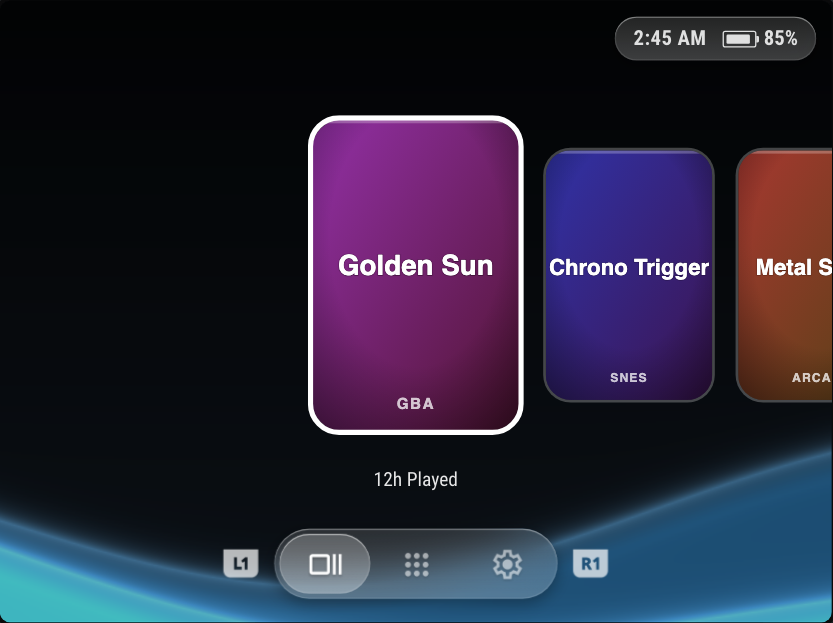
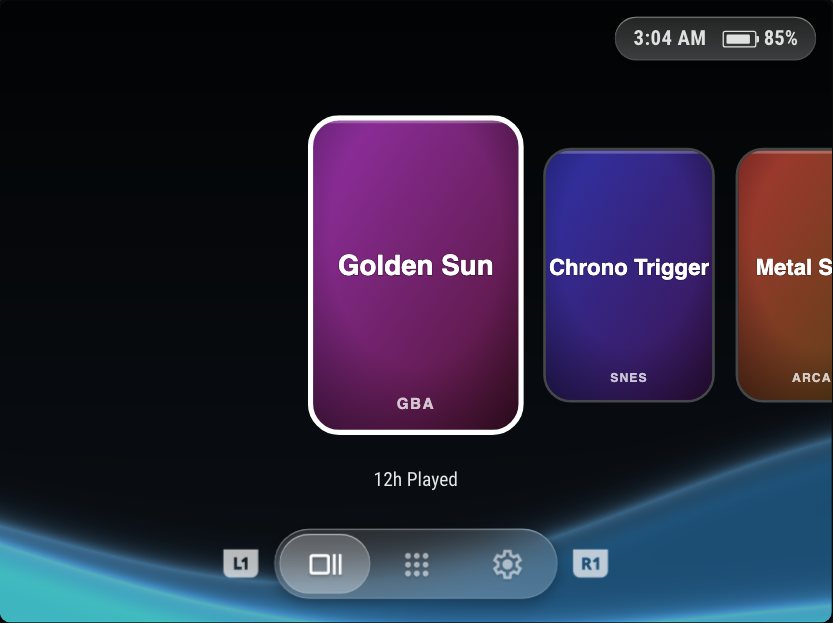
docs: rewrite the guidance for the ported architecture
`CLAUDE.md` described a repo of standalone HTML files and no longer described this one. It now covers where things are, how to add a theme, the portability rules, and the four structural facts about theme XML that each cost a debugging round - inheritance, composing conditions, include-selected option files, and origin.

Two rules changed rather than moved. Screens are no longer openable over `file://`, which was a stated convention and is deliberately retired; the legacy pages keep it. And motion is not inertness: `animate={false}` settles motion while `interactive={false}` is what removes the controls, a distinction the themes originally conflated.

The widget catalogue gains the handoff the whole exercise is for: what a renderer with no DOM and no cascade would have to provide. Nineteen widgets, one geometry primitive, a depth model with real stacking, motion as a timeline over seven channels and ten easings, declared text metrics, three image fits and one capability flag - and, as usefully, what it would not need.

The scaffold is re-aligned with what the three real ports settled on, including why it has no `Interactive.tsx` and why the absence is the lesson: a theme with no subsets to expose does not need the layer.

diff --git a/app/src/themes/example-cfw/routes.tsx b/app/src/themes/example-cfw/routes.tsx
@@ -3,7 +3,15 @@ import type { ScreenRoute } from '../../routes'
 import { ExampleOs } from '.'
 import { EXAMPLE_MANIFEST, type ExampleView } from './manifest'
 
-/** Mount each manifest entry. Static entries are the live build with motion settled. */
+/**
+ * Mount each manifest entry. A static entry is the live build with motion settled.
+ *
+ * The live build is inline here rather than in an `Interactive.tsx`, because this theme has no
+ * mockup-only subsets to expose. The other three do - fourteen colour schemes, eleven views, five
+ * backgrounds - and each keeps that state in its own `Interactive.tsx` so the theme's props stay
+ * the same set a static screen passes. Reach for that file when there is something to switch;
+ * until then it is a layer with nothing in it.
+ */
 export function exampleRoutes(): ScreenRoute[] {
   return EXAMPLE_MANIFEST.map((entry) => ({
     ...entry,

diff --git a/docs/widgets/README.md b/docs/widgets/README.md
@@ -74,3 +74,50 @@ as a props spread, which stays banned.
 
 **Web-only capabilities** are declared in the widget's registry entry alongside the fallback it
 renders instead. A widget declaring one without the other fails the registry test.
+
+## What a C system would have to provide
+
+The vocabulary is settled: four sets are ported, and the last three needed between one and four
+new leaf widgets each rather than any change to its shape. So this is the handoff - what a second
+renderer, with no DOM and no cascade, would have to implement to draw every screen in this repo.
+
+**Nineteen widgets.** Each is a pure function of typed props onto a rectangle. None reads ambient
+state, so each can be compiled independently.
+
+**One geometry primitive.** A `Box` of resolved device pixels - `left`, `top`, `width`, `height`,
+plus an optional font size, corner radius and depth. Every position in every theme resolves to one
+of these before a widget sees it, so the renderer never needs a layout engine. Two placement forms
+exist: a plain box, and an *anchored* box that sizes to its content and then shifts by a fraction
+of its own size. The second is not a special case of the first, and themes depend on it.
+
+**A depth model with real stacking.** Every fault this repo has had was a compositing fault, and
+all four came from the same place: an element that was numerically correct and painted in the
+wrong order. A renderer needs a total order over drawn elements that a caller can reason about
+locally - if a container can silently re-base the depths inside it, as a CSS stacking context
+does, the same class of bug is waiting.
+
+**Motion as a timeline of segments.** `channel, from, to, begin, duration, easing`, plus repeat
+and alternate. Seven channels - opacity, two offsets, two positions, scale, depth - and ten
+easings, which is every curve the four sets between them use. Two properties matter beyond the obvious: several channels animate on one element at
+once and must compose rather than overwrite, and every track has a defined *resting* value so a
+still can be drawn without running a clock. See [animation.md](../animation.md).
+
+**Text with declared metrics.** Family, size, weight, and an explicit wrap and truncation rule.
+No widget relies on the renderer measuring text for it, and where the source truncates, the rule
+is a prop rather than a CSS property.
+
+**Three image fit modes** - contain, cover, and the anchored fit above - each with a corner radius
+and an optional nearest-neighbour scale for pixel art.
+
+**One capability flag.** Whether the richer path is available. Four effects across the four sets
+need it: backdrop blur, an arbitrary mask, CSS ellipsis, and a fragment shader. The first three are
+declared by widgets alongside the fallback they render instead; the shader belongs to Vitro's wave
+background, which is a render loop rather than a widget and carries its own 2D approximation. A
+renderer implementing none of the four still draws every screen in this repo.
+
+(The capability list also names `boxReflect`, which no widget currently declares - PlayStation X's
+carousel reflection was dropped during the port. It is kept in the type because the effect is real
+in the source and a future screen may want it.)
+
+What it would *not* need: a cascade, a layout engine, document flow, or a way to express a
+selector. Nothing in the vocabulary uses any of them.

diff --git a/docs/themes/example-cfw.md b/docs/themes/example-cfw.md
@@ -119,5 +119,39 @@ narrowly.
 5. Write one view component per screen, each opening with a PORTING NOTES block.
 6. List the screens in `manifest.ts` and mount them in `routes.tsx`.
 7. Register the theme's routes in `app/src/themes/registry.ts`.
-8. Copy this page to `docs/themes/<slug>.md` and fill it in, and record every deviation from the
+8. Add it to `app/src/themes/manifest.ts` and to the catalogue in `app/src/themes/catalogue.ts`.
+9. Copy this page to `docs/themes/<slug>.md` and fill it in, and record every deviation from the
    source in `docs/porting/<slug>.md`.
+10. Run `npm run test:e2e:update` to write the new screens' baselines, then look at them.
+
+## What the three real ports taught
+
+This scaffold was written before any of them, and it has been brought back into line with what
+they settled on. The differences are worth knowing before copying it.
+
+**`Interactive.tsx` is optional, and this theme is the case where it is not needed.** A theme with
+mockup-only subsets - fourteen colour schemes, eleven views, five backgrounds - keeps that state in
+its own `Interactive.tsx` so the theme's own props stay exactly the set a static screen passes.
+That is what makes "a still is the live build with motion settled" true rather than aspirational.
+With nothing to switch, the live route is two lines in `routes.tsx` and the extra file would be a
+layer with nothing in it.
+
+**A theme root gets a stacking context.** Every set here paints a full-bleed background under its
+content, and every one of them at some point had that background swallow the screen. If the theme
+has a root element with a background fill, give it `isolation: isolate` so a depth inside it cannot
+escape. This scaffold has no such layer, which is why it has no such rule - and why it would not
+have taught you the lesson.
+
+**Geometry resolves once, up front.** `layout.ts` here resolves fractions to device pixels in a
+pure function of `(device, options)`. The two large sets do the same through a bigger `spec.ts`
+with per-condition variant rows. Either way the rule is the same: a view component receives
+numbers, never a formula, and never reads back from the DOM.
+
+**Motion is not the same as inertness.** `animate={false}` settles motion. What makes a screen
+inert is `interactive={false}`, which gives it no input provider. Do not gate a press handler on
+`animate` - it reads as harmless and makes the screen impossible to drive with a stable background,
+which is exactly what an interaction trace needs.
+
+**Look at the screen.** Every serious fault in this repo was a compositing fault that passed the
+entire test suite. Whatever else you do, render it and compare it against the source's own
+screenshots.

diff --git a/README.md b/README.md
@@ -1,6 +1,6 @@
 # CFW UI Mockups
 
-HTML mockups of the on-screen UI of SBC gaming handheld custom firmware and launchers -
+Mockups of the on-screen UI of SBC gaming handheld custom firmware and launchers -
 projects like muOS, Knulli, ArkOS, AmberELEC, ROCKNIX and their launchers. Each screen is
 recreated at the device's exact resolution inside a device frame, as a visual and interaction
 reference. Nothing here ships to a device.

diff --git a/docs/README.md b/docs/README.md
@@ -54,4 +54,5 @@ fixed, every deliberate deviation, and how each was verified.
 - [porting/vitrolauncher.md](porting/vitrolauncher.md)
 - [porting/example-cfw.md](porting/example-cfw.md)
 
-A page arrives here with each theme port.
+All four sets are ported, so this list is complete. Each page records what changed against the
+original: every defect fixed, every deliberate deviation, and how each was verified.
